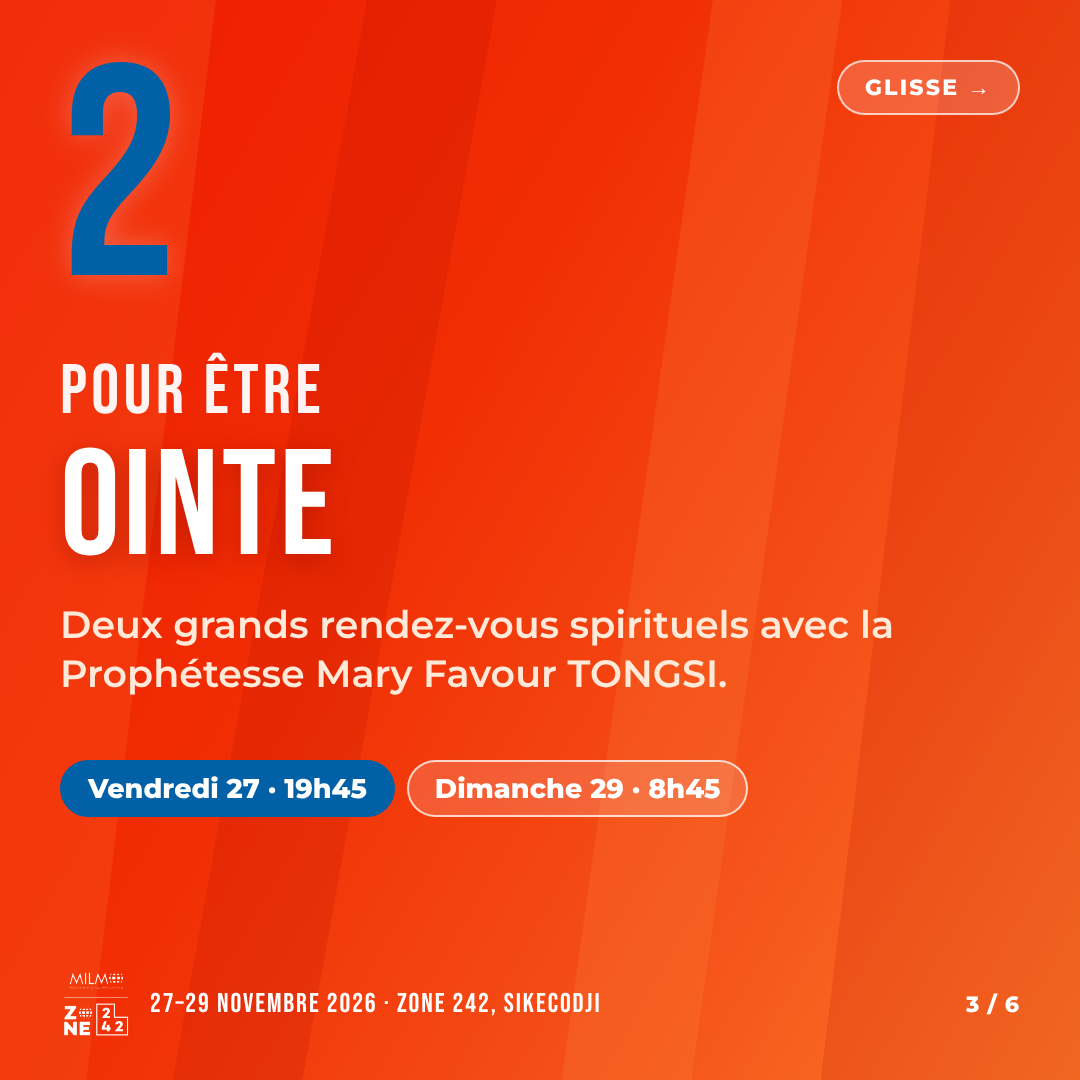
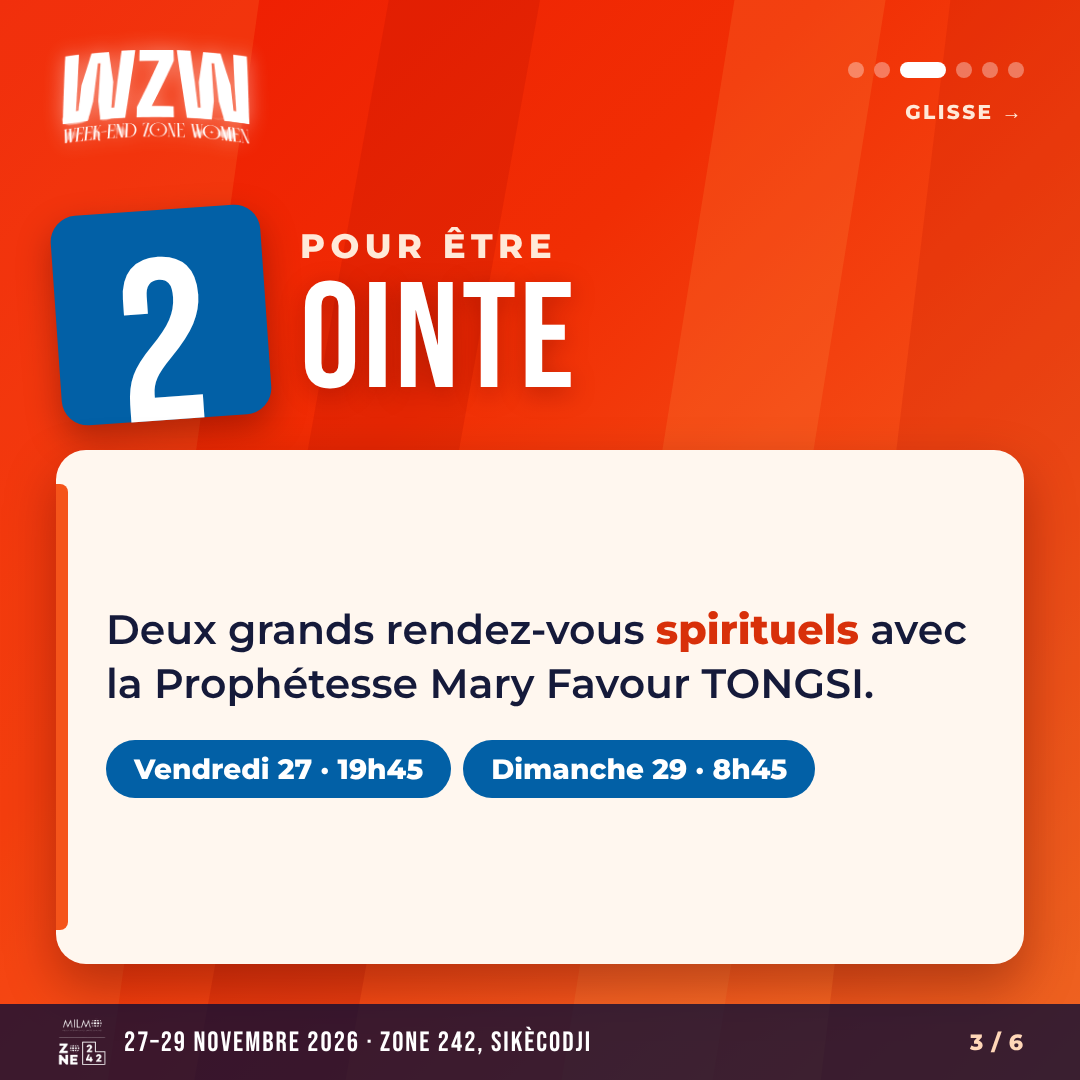
Carrousel 4 raisons : nouveau design, femme du teaser en couverture et diapo finale
Claude-Session: https://claude.ai/code/session_01MwjzxB6vNBUzfK55D3M67f

diff --git a/zone242-com-session/livrables/scripts-sources/build_carrousel_4_raisons_carre.py b/zone242-com-session/livrables/scripts-sources/build_carrousel_4_raisons_carre.py
@@ -1,76 +1,88 @@
+# Carrousel « 4 raisons de venir » 1080×1080 (6 diapos) · Week-end Zone Women · 27-29 novembre 2026.
+# Usage : python build_carrousel_4_raisons_carre.py <dossier_ressources> <dossier_sortie>
+#   ressources : f/ (bebas-neue-latin-400, montserrat-latin-600 et 800 .woff2), logos_alpha.png, titre_alpha3.png, femme_teaser.png
 import pathlib, sys
 from playwright.sync_api import sync_playwright
-H = pathlib.Path(sys.argv[1]).resolve()  # dossier des ressources (f/, logos_alpha.png, titre_alpha3.png)
-O = pathlib.Path(sys.argv[2]).resolve(); O.mkdir(parents=True, exist_ok=True)
+H = pathlib.Path(sys.argv[1]).resolve(); O = pathlib.Path(sys.argv[2]).resolve(); O.mkdir(parents=True, exist_ok=True)
+N = 6
 CSS = """
 @font-face{font-family:B;src:url(f/bebas-neue-latin-400-normal.woff2)}
 @font-face{font-family:M;font-weight:600;src:url(f/montserrat-latin-600-normal.woff2)}
 @font-face{font-family:M;font-weight:800;src:url(f/montserrat-latin-800-normal.woff2)}
 *{margin:0;padding:0;box-sizing:border-box}
 body{width:1080px;height:1080px;overflow:hidden;position:relative;font-family:B;color:#fff;
- background:linear-gradient(120deg,#ee1a02 0%,#f12e04 40%,#f5541a 74%,#fb7a2a 100%)}
+ background:linear-gradient(135deg,#ee1a02 0%,#f12e04 38%,#f5541a 72%,#fb7a2a 100%)}
 .sh{position:absolute;inset:0}
-.s1{background:#ff7a33;opacity:.20;clip-path:polygon(0 0,20% 0,8% 100%,0 100%)}
-.s2{background:#b80f00;opacity:.20;clip-path:polygon(34% 0,46% 0,28% 100%,16% 100%)}
-.s3{background:#ff9a4a;opacity:.16;clip-path:polygon(66% 0,78% 0,64% 100%,52% 100%)}
-.s4{background:#c01200;opacity:.18;clip-path:polygon(88% 0,100% 0,100% 100%,76% 100%)}
-.foot{position:absolute;left:60px;right:60px;bottom:40px;display:flex;align-items:center;justify-content:space-between;font-size:27px;letter-spacing:.07em}
-.foot img{width:72px;height:72px;margin-right:18px}.foot .l{display:flex;align-items:center}
-.foot .r{font-family:M;font-weight:800;font-size:22px;letter-spacing:.04em}
-.swipe{position:absolute;right:60px;top:60px;font-family:M;font-weight:800;font-size:22px;letter-spacing:.1em;background:rgba(255,255,255,.18);border:2px solid rgba(255,255,255,.7);border-radius:40px;padding:12px 26px}
-.chip{display:inline-block;background:rgba(255,255,255,.16);border:2px solid rgba(255,255,255,.75);border-radius:50px;padding:10px 26px 10px;font-family:M;font-weight:800;font-size:27px;letter-spacing:0;margin:0 12px 14px 0}
-.chipb{background:#0260a6;border-color:#0260a6}
+.s1{background:#ff7a33;opacity:.22;clip-path:polygon(0 0,24% 0,10% 100%,0 100%)}
+.s2{background:#b80f00;opacity:.22;clip-path:polygon(36% 0,50% 0,32% 100%,18% 100%)}
+.s3{background:#ff9a4a;opacity:.18;clip-path:polygon(68% 0,82% 0,66% 100%,52% 100%)}
+.s4{background:#c01200;opacity:.20;clip-path:polygon(88% 0,100% 0,100% 100%,76% 100%)}
+.logo{position:absolute;left:56px;top:50px;width:250px;filter:drop-shadow(0 0 10px rgba(255,255,255,.45))}
+.bar{position:absolute;left:0;right:0;bottom:0;height:76px;background:rgba(8,12,52,.78);display:flex;align-items:center;justify-content:space-between;padding:0 56px;font-size:28px;letter-spacing:.07em}
+.bar .z{display:flex;align-items:center;gap:16px}.bar img{height:52px;width:52px}
+.bar .r{font-family:M;font-weight:800;font-size:22px;letter-spacing:.04em;color:#ffd7b8}
+.dots{position:absolute;right:56px;top:62px;display:flex;gap:10px;align-items:center}
+.dots i{display:block;width:16px;height:16px;border-radius:50%;background:rgba(255,255,255,.35)}.dots i.on{background:#fff;width:46px;border-radius:9px}
+.swipe{position:absolute;right:56px;top:100px;font-family:M;font-weight:800;font-size:20px;letter-spacing:.12em;color:#ffe9d8}
+.num{position:absolute;left:56px;top:210px;width:210px;height:210px;background:#0260a6;border-radius:26px;box-shadow:0 14px 34px rgba(50,0,0,.35);font-size:230px;line-height:1;text-align:center;padding-top:26px;transform:rotate(-4deg)}
+.lab{position:absolute;left:300px;top:225px;right:50px}
+.lab .a{font-family:M;font-weight:800;font-size:34px;letter-spacing:.16em;color:#ffe9d8}
+.lab .b{line-height:.9;letter-spacing:.02em;text-shadow:0 6px 24px rgba(120,10,0,.4);margin-top:8px}
+.card{position:absolute;left:56px;right:56px;top:450px;bottom:116px;background:#fff7ef;border-radius:30px;box-shadow:0 22px 50px rgba(70,0,0,.35);padding:40px 50px;color:#151a3a;display:flex;flex-direction:column;justify-content:center}
+.card:before{content:"";position:absolute;left:0;top:34px;bottom:34px;width:12px;background:#f5541a;border-radius:0 8px 8px 0}
+.card p{font-family:M;font-weight:600;font-size:41px;line-height:1.32;color:#151a3a}
+.card p b{font-weight:800;color:#d8300a}
+.chips{margin-top:30px}
+.chip{display:inline-block;background:#0260a6;color:#fff;border-radius:50px;padding:12px 28px 12px;font-family:M;font-weight:800;font-size:28px;margin:0 12px 14px 0}
+.chip.o{background:#fff;color:#d8300a;border:3px solid #f5541a;padding:9px 25px}
 """
-def base(inner, n, total=6): return f"""<!doctype html><meta charset=utf-8><style>{CSS}</style>
-<div class=sh></div><div class="sh s1"></div><div class="sh s2"></div><div class="sh s3"></div><div class="sh s4"></div>{inner}
-<div class=foot><div class=l><img src=logos_alpha.png>27–29 NOVEMBRE 2026 · ZONE 242, SIKECODJI</div><div class=r>{n} / {total}</div></div>"""
-slides = []
-# 1 couverture
-slides.append(f"""<!doctype html><meta charset=utf-8><style>{CSS}
-.glow{{position:absolute;left:40px;top:60px;width:1000px;height:760px;background:radial-gradient(closest-side,rgba(255,170,110,.6),rgba(255,170,110,0))}}
-#ti{{position:absolute;left:90px;top:80px;width:900px;filter:drop-shadow(0 0 16px rgba(255,255,255,.7)) drop-shadow(0 0 44px rgba(255,255,255,.3))}}
-.k{{position:absolute;left:0;right:0;top:560px;text-align:center}}
-.k .n{{display:inline-block;background:#0260a6;font-size:230px;line-height:1;padding:24px 56px 6px;border-radius:12px;box-shadow:0 10px 30px rgba(60,0,0,.3)}}
-.k .t{{font-size:100px;line-height:.95;letter-spacing:.04em;margin-top:20px;text-shadow:0 6px 20px rgba(120,10,0,.35)}}
-</style><div class=sh></div><div class="sh s1"></div><div class="sh s2"></div><div class="sh s3"></div><div class="sh s4"></div><div class=glow></div>
-<img id=ti src=titre_alpha3.png><div class=k><span class=n>4</span><div class=t>RAISONS DE VENIR</div></div>
-<div class=swipe>GLISSE →</div>
-<div class=foot><div class=l><img src=logos_alpha.png>RESTAURÉE · OINTE · ENVOYÉE</div><div class=r>1 / 6</div></div>""")
+def bar(n, txt="27–29 NOVEMBRE 2026 · ZONE 242, SIKÈCODJI"):
+    return f'<div class=bar><div class=z><img src=logos_alpha.png>{txt}</div><div class=r>{n} / {N}</div></div>'
+def dots(n): return '<div class=dots>' + "".join(f'<i class="{"on" if i == n else ""}"></i>' for i in range(1, N + 1)) + '</div>'
+def page(inner, n, extra_css=""):
+    return f"<!doctype html><meta charset=utf-8><style>{CSS}{extra_css}</style><div class=sh></div><div class='sh s1'></div><div class='sh s2'></div><div class='sh s3'></div><div class='sh s4'></div>{inner}{bar(n)}"
+S = []
+# 1 couverture : la femme du teaser, téléphone avec les dates
+S.append(page("""
+<style>
+.glow{position:absolute;left:300px;top:120px;width:900px;height:900px;background:radial-gradient(closest-side,rgba(255,200,150,.75),rgba(255,200,150,0))}
+.fem{position:absolute;left:392px;bottom:76px;width:722px;filter:drop-shadow(-14px 10px 28px rgba(80,10,0,.45))}
+.big4{position:absolute;left:50px;top:230px;font-size:430px;line-height:.78;color:#0260a6;text-shadow:0 0 40px rgba(255,255,255,.35)}
+.t{position:absolute;left:56px;top:560px;font-size:128px;line-height:.9;letter-spacing:.02em;text-shadow:0 6px 24px rgba(120,10,0,.45)}
+.gl{position:absolute;left:56px;top:918px;font-family:M;font-weight:800;font-size:22px;letter-spacing:.12em;background:rgba(255,255,255,.18);border:2px solid rgba(255,255,255,.75);border-radius:40px;padding:10px 24px}
+</style><div class=glow></div><img class=fem src=femme_teaser.png><img class=logo src=titre_alpha3.png>
+<div class=big4>4</div><div class=t>RAISONS<br>DE VENIR</div><div class=gl>GLISSE →</div>""", 1))
 RAISONS = [
- ("1", "POUR ÊTRE", "RESTAURÉE", "Guérir des traumatismes émotionnels, prendre soin de son corps et parler enfin de ce qu'on n'ose pas dire.", ["Panel 1 · samedi 10h30", "Belle et en bonne santé · 12h00", "Table ronde · 17h15"]),
- ("2", "POUR ÊTRE", "OINTE", "Deux grands rendez-vous spirituels avec la Prophétesse Mary Favour TONGSI.", ["Vendredi 27 · 19h45", "Dimanche 29 · 8h45"]),
- ("3", "POUR ÊTRE", "ENVOYÉE", "Des panels pour comprendre ton appel, bâtir ta vie financière avec Dieu et faire de ta maison une mission.", ["Me voici, envoie-moi !", "Femme, foi et finances", "Ma maison, ma mission"]),
- ("4", "POUR TE", "RESSOURCER ET CÉLÉBRER", "Une Zone Détente le samedi, puis l'Agapè des Femmes le dimanche.", ["Salon de thé", "Massages", "Beauté et bien-être", "Coin photo", "Agapè · dimanche 11h30"]),
+ ("1", "POUR ÊTRE", "RESTAURÉE", "<b>Guérir</b> des traumatismes émotionnels, prendre soin de son corps et parler enfin de ce qu'on n'ose pas dire.", ["Panel 1 · samedi 10h30", "Belle et en bonne santé · 12h00", "Table ronde · 17h15"]),
+ ("2", "POUR ÊTRE", "OINTE", "Deux grands rendez-vous <b>spirituels</b> avec la Prophétesse Mary Favour TONGSI.", ["Vendredi 27 · 19h45", "Dimanche 29 · 8h45"]),
+ ("3", "POUR ÊTRE", "ENVOYÉE", "Des panels pour comprendre ton <b>appel</b>, bâtir ta vie financière avec Dieu et faire de ta maison une <b>mission</b>.", ["Me voici, envoie-moi !", "Femme, foi et finances", "Ma maison, ma mission"]),
+ ("4", "POUR TE", "RESSOURCER ET CÉLÉBRER", "Une <b>Zone Détente</b> le samedi, puis l'<b>Agapè des Femmes</b> le dimanche.", ["Salon de thé", "Massages", "Beauté et bien-être", "Coin photo", "Agapè · dimanche 11h30"]),
 ]
 for i, (num, l1, l2, body, chips) in enumerate(RAISONS, 2):
-    big = 150 if len(l2) < 12 else 104
-    ch = "".join(f'<span class="chip{" chipb" if j == 0 and i < 4 else ""}">{c}</span>' for j, c in enumerate(chips))
-    slides.append(base(f"""<style>
-.num{{position:absolute;left:60px;top:50px;font-size:300px;line-height:.9;color:#0260a6;text-shadow:0 0 30px rgba(255,255,255,.25)}}
-.lab{{position:absolute;left:60px;top:350px;right:60px}}
-.lab .a{{font-size:70px;letter-spacing:.06em;opacity:.95}}.lab .b{{font-size:{big}px;line-height:.95;letter-spacing:.02em;text-shadow:0 6px 24px rgba(120,10,0,.35);margin-top:4px}}
-.bd{{position:absolute;left:60px;right:60px;top:{600 if len(l2) < 12 else 640}px;font-family:M;font-weight:600;font-size:38px;line-height:1.3;color:#ffe9d8}}
-.chips{{position:absolute;left:60px;right:60px;top:{760 if len(l2) < 12 else 790}px}}
-</style><div class=swipe>GLISSE →</div>
-<div class=num>{num}</div><div class=lab><div class=a>{l1}</div><div class=b>{l2}</div></div>
-<div class=bd>{body}</div><div class=chips>{ch}</div>""", i))
+    big = 150 if len(l2) < 12 else 98
+    ch = "".join(f'<span class="chip{" o" if j == len(chips) - 1 and i == 5 else ""}">{c}</span>' for j, c in enumerate(chips))
+    S.append(page(f"""<img class=logo src=titre_alpha3.png style="width:200px">{dots(i)}<div class=swipe>GLISSE →</div>
+<div class=num>{num}</div><div class=lab><div class=a>{l1}</div><div class=b style="font-size:{big}px">{l2}</div></div>
+<div class=card><p>{body}</p><div class=chips>{ch}</div></div>""", i))
 # 6 fin
-slides.append(base("""<style>
-.m{position:absolute;left:0;right:0;top:110px;text-align:center}
-.m .a{font-size:150px;line-height:.95;letter-spacing:.03em;text-shadow:0 6px 24px rgba(120,10,0,.35)}
-.m .b{font-size:62px;letter-spacing:.05em;margin-top:18px}
-.m .q{font-family:M;font-weight:600;font-size:28px;margin-top:18px;color:#ffe9d8}
-.bx{position:absolute;left:100px;right:100px;top:590px;background:rgba(2,96,166,.55);border-radius:16px;padding:34px 40px 26px;font-size:60px;line-height:1.06;text-align:center}
-.bx .c{font-family:M;font-weight:600;font-size:30px;line-height:1.5;margin-top:12px}
-.inv{position:absolute;left:0;right:0;top:872px;text-align:center;font-size:72px;letter-spacing:.06em}.inv b{font-weight:400;background:#fff;color:#d8300a;padding:8px 30px 0;border-radius:8px}
-</style><div class=m><div class=a>ET TOI,<br>TU VIENS ?</div><div class=b>WEEK-END ZONE WOMEN</div><div class=q>« Les femmes prennent le contrôle de la Zone »</div></div>
-<div class=bx>DU VEN. 27 AU DIM. 29 NOVEMBRE 2026<div class=c>Zone 242 – Sikècodji, rue de Golf FM<br>Gratuit · 150 places · inscription obligatoire<br>contact.zone242@gmail.com · 01 41 62 77 77</div></div>
+S.append(page("""
+<style>
+.glow{position:absolute;left:380px;top:200px;width:800px;height:800px;background:radial-gradient(closest-side,rgba(255,200,150,.7),rgba(255,200,150,0))}
+.fem{position:absolute;left:560px;bottom:76px;width:540px;filter:drop-shadow(-12px 8px 24px rgba(80,10,0,.45))}
+.q{position:absolute;left:56px;top:176px;font-size:150px;line-height:.9;letter-spacing:.02em;text-shadow:0 6px 24px rgba(120,10,0,.4)}
+.sl{position:absolute;left:56px;top:470px;width:470px;font-family:M;font-weight:600;font-size:26px;line-height:1.35;color:#ffe9d8}
+.bx{position:absolute;left:56px;top:560px;width:540px;background:rgba(2,96,166,.9);border-radius:22px;padding:28px 32px 24px;box-shadow:0 18px 40px rgba(40,0,0,.35)}
+.bx .d{font-size:54px;line-height:1;letter-spacing:.03em}
+.bx .c{font-family:M;font-weight:600;font-size:21px;line-height:1.55;margin-top:12px}
+.inv{position:absolute;left:56px;top:880px;font-size:64px;letter-spacing:.05em}.inv b{font-weight:400;background:#fff;color:#d8300a;padding:6px 26px 0;border-radius:10px;display:inline-block}
+</style><div class=glow></div><img class=fem src=femme_teaser.png><img class=logo src=titre_alpha3.png style="width:200px">
+<div class=q>ET TOI,<br>TU VIENS ?</div><div class=sl>« Les femmes prennent le contrôle de la Zone »</div>
+<div class=bx><div class=d>DU VEN. 27 AU DIM. 29<br>NOVEMBRE 2026</div><div class=c>Zone 242 – Sikècodji, rue de Golf FM<br>Gratuit · 150 places · inscription obligatoire<br>contact.zone242@gmail.com · 01 41 62 77 77</div></div>
 <div class=inv><b>INVITE UNE AMIE</b></div>""", 6))
-out = []
 with sync_playwright() as p:
     b = p.chromium.launch(executable_path="/opt/pw-browsers/chromium", args=["--no-sandbox"])
     pg = b.new_context(viewport={"width": 1080, "height": 1080}).new_page()
-    for i, h in enumerate(slides, 1):
+    for i, h in enumerate(S, 1):
         f = H / f"s{i}.html"; f.write_text(h); pg.goto("file://" + str(f)); pg.evaluate("document.fonts.ready"); pg.wait_for_timeout(300)
         pg.screenshot(path=str(O / f"4_raisons_WZW_{i}.png"))
     b.close()
